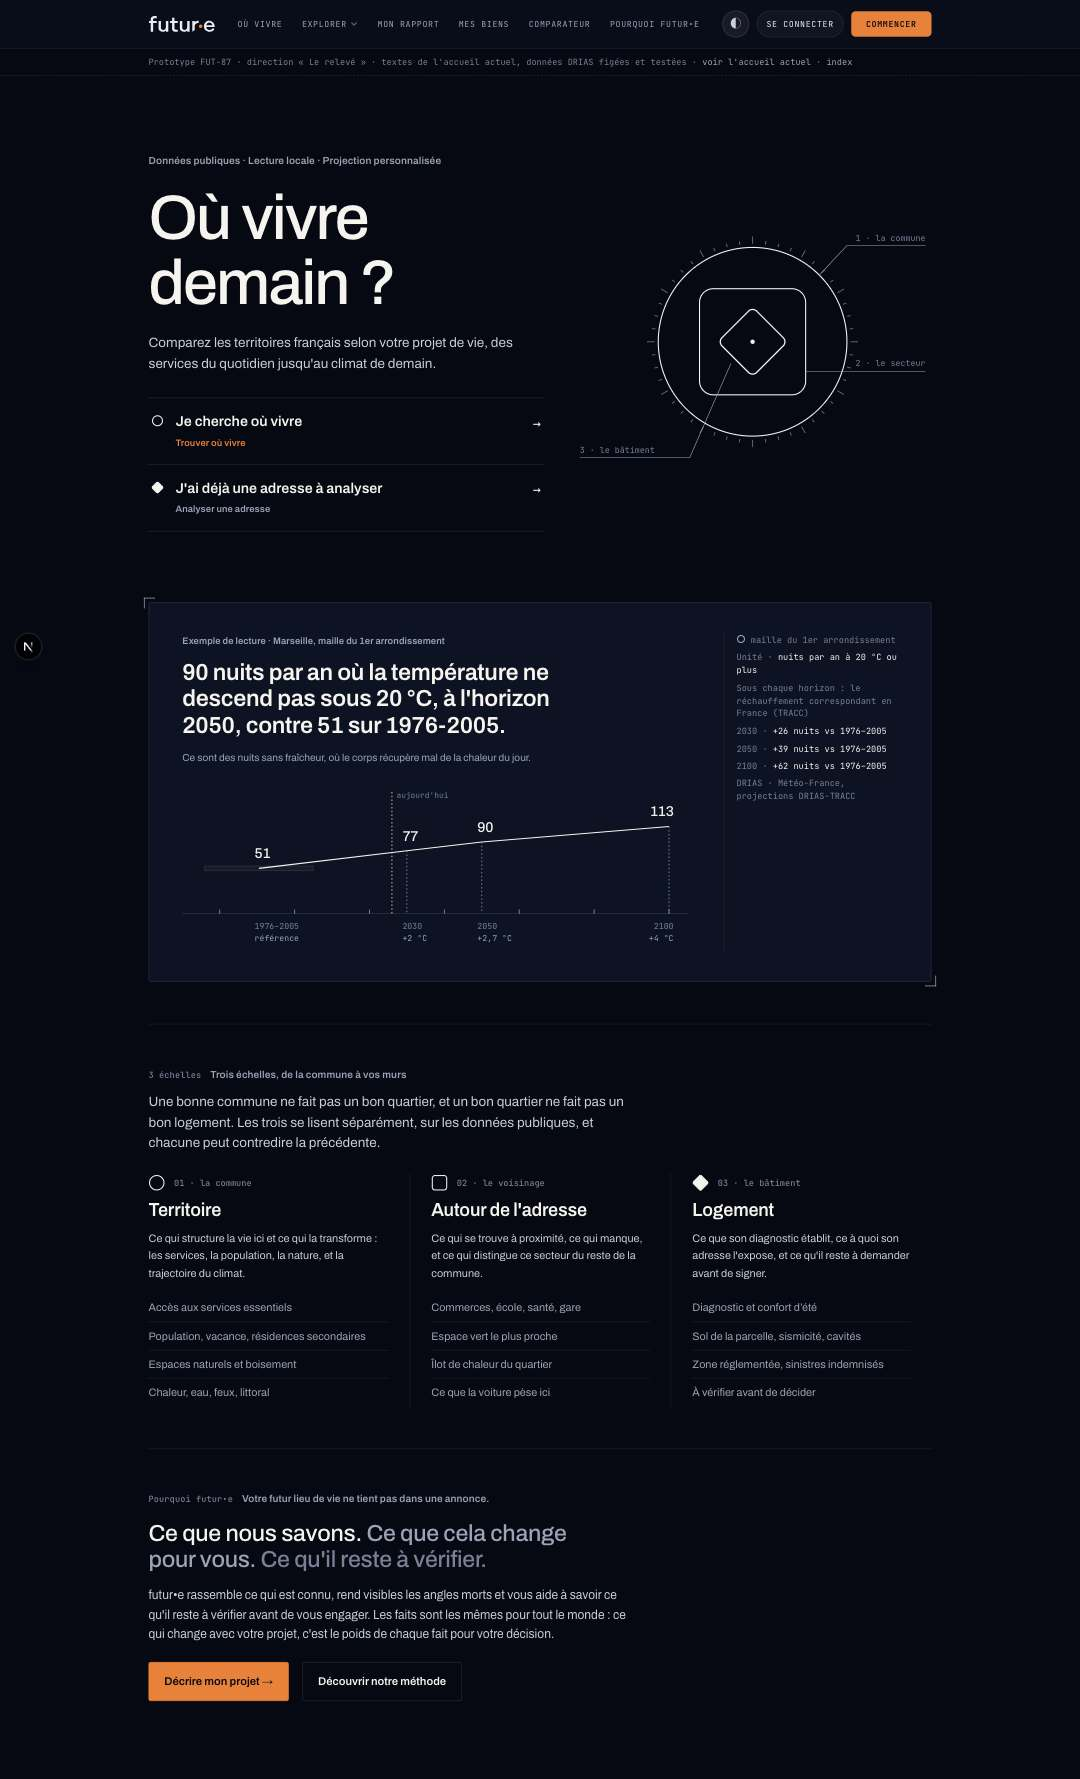
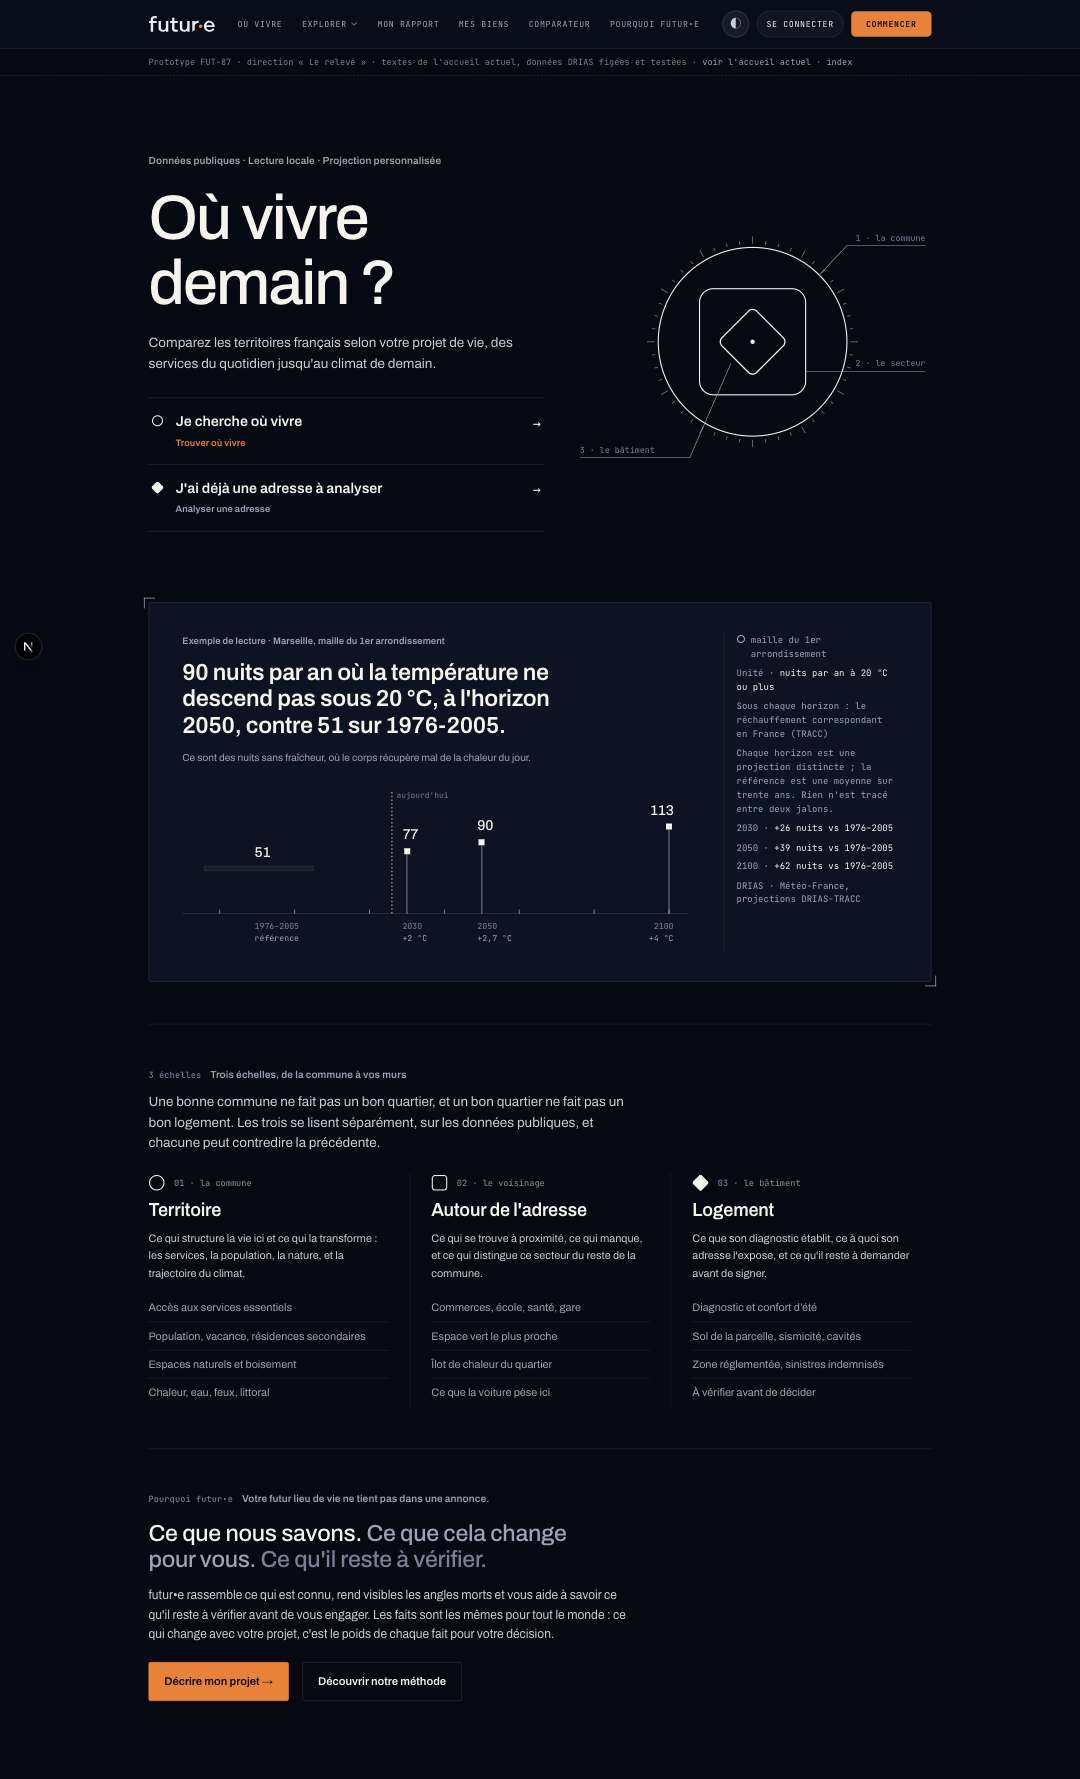
FUT-87 V2 : arbitrages du porteur, mesures mobiles, défaut moteur relevé, planches avant / après et cas défavorables

Changed region(s): [[0.6722, 0.3401, 0.825, 0.5256], [0.4278, 0.4637, 0.4583, 0.4947], [0.3667, 0.4637, 0.3972, 0.4947]]

diff --git a/docs/audits/2026-10-11-fut87-direction-artistique.md b/docs/audits/2026-10-11-fut87-direction-artistique.md
@@ -1,8 +1,32 @@
 # FUT-87 · Directions artistiques, recommandation, design system et migration
 
-Date : 11 octobre 2026 · Statut : **proposition, en attente de validation du porteur.**
-Rien de ce document n'est appliqué au site public. Les prototypes vivent sous `/dev/fut87` (404 en
-production) ; l'audit qui les fonde est `2026-10-11-fut87-audit-visuel.md`.
+Date : 11 octobre 2026 · Statut : **direction de travail validée par le porteur (revue du 11/10) ;
+version achevée et migration non validées.** Rien de ce document n'est appliqué au site public. Les
+prototypes vivent sous `/dev/fut87` (404 en production) ; l'audit qui les fonde est
+`2026-10-11-fut87-audit-visuel.md`. La V2 (§ 0) répond à la revue du porteur.
+
+## 0. V2 · Ce que la revue a changé
+
+La revue a validé l'architecture éditoriale, la marge de preuve, les glyphes et les visualisations issues
+des données, et demandé une passe de maturation avant toute migration. Ce qui a été fait :
+
+| Point de la revue | Réponse V2 | Vérification |
+| --- | --- | --- |
+| **Trajectoire dessinée comme une série continue** (`RegleDuTemps` reliait les jalons par une ligne) | Chaque horizon est un jalon isolé : une tige depuis l'axe, un repère carré, sa valeur. La référence 1976-2005 reste une bande. Aucun trait entre deux jalons, et la marge le dit. | Test D1 : la fonction ne contient ni `polyline`, ni `path`, ni `points` ; une ligne réintroduite fait échouer le test. |
+| **Provenance des preuves** (une preuve sans valeur perdait lien, cible, grain et date ; une carte prenait le grain de sa première preuve) | `lireDossier` garde chaque `EvidenceRef` entière, avec ou sans valeur ; une carte porte **tous** ses grains ; une composition reprend les grains de ses faits absorbés, et ce que sa face ne raconte pas reste lisible dans un dépliable, comme en production. En marge, une source sans valeur reste un lien, et chaque preuve d'une carte à grains mêlés porte son propre glyphe. | Tests L4 (toutes les preuves de la minute, champ par champ), L5 (carte mêlant commune, secteur et adresse, lien et date d'une source sans valeur), L6 (composition et fait absorbé d'un autre grain). Deux mutations (liens retirés, premier grain seulement) font échouer L4 à L6. |
+| **Mobile trop dense, sommaire hors du premier écran** | Sommaire en jetons juste sous le verdict ; gestes prioritaires avant l'explication ; projet replié en une ligne ; titre du verdict de 27 px sur mobile. | Mesuré sur quatre dossiers (référence, condition, nombreuses réserves, titre long) : titre, sommaire et gestes finissent entre 466 et 620 px à 390 × 844, et à 647 px au plus à 360 × 740, barre de navigation comprise et bandeau du prototype exclu. |
+| **Marge de preuve trop petite** | 12 px sur grand écran, 13 px sur mobile (11,5 px en V1) ; sources en `--fg-3` au lieu du gris de métadonnée. | Captures `*-390.jpg`. |
+| **Dossier trop austère, monotonie de lignes** | Trois densités alternées : la plaque (éditoriale) ; deux moments visuels, l'emblème compté « D'où viennent ces constats » et la bande teintée de la balance (Ma décision) ou de l'audit (Logement) ; le registre des contrôles (sobre). | Captures `decision-apres-1440.jpg`, `logement-apres-1440.jpg`. |
+| **Situations défavorables** | Cinq cas Logement (référence, sans diagnostic, immeuble, sources sans réponse, titre long) et cinq cas Ma décision (référence, condition sans compromis, nombreuses réserves, titre long, correspondance sans réserve), sélectionnables en tête de page. Les absences reprennent les phrases de production ; deux formulations nouvelles sont signalées dans le code (patrimoine non vérifié, mémoire des sinistres non lue). | Captures `cas-*.jpg`. Les cas ont révélé trois défauts, corrigés : libellés de la règle du temps superposés (diagnostic 2023 et audit 2024), « : » orphelin en début de ligne dans le verdict, rouge d'incompatibilité au sommaire d'une section de conditions sans blocage. |
+| **Orange** | Absent des données et de la navigation du dossier ; présent dans l'identité (point du logo, porte principale et bouton d'action de l'accueil). Dans le dossier, il ne reste que là où la production le met : le ton « arbitrage » du verdict, qui est le registre compromis. | Revue visuelle des captures. |
+| **Git** | Les quatre commits FUT-87 ont été rebasés sur `main` (après FUT-67 #44 et FUT-26 #45), sans rejouer FUT-67 ; #44 contient FUT-67 à l'identique. | `git log origin/main..` ne contient que des commits FUT-87. |
+
+**Défaut du moteur trouvé en testant les cas** (hors périmètre FUT-87, non corrigé ici) : à Nîmes, faire de
+« des étés plus frais » une condition sans compromis (`confirmer=faible_chaleur`) fait échouer l'assemblage
+du dossier : « fait absorbé inexistant : 30189:climat-chaleur (30189:composition-confort-ete) ». Le harnais
+de production `/dev/dossier` reproduit l'erreur à l'identique. Un lecteur qui confirmerait cette condition
+sur une commune chaude verrait vraisemblablement son dossier échouer. À traiter avec FUT-54 ou en ticket
+propre. Le cas « condition sans compromis » du prototype utilise donc la proximité de la mer.
 
 ## Cadre
 
@@ -89,7 +113,8 @@ décision devient la plaque du verdict. Ces trois formes viennent du produit lui
 - Le grain se reconnaît d'un coup d'œil à la forme, sans lire « à l'échelle de la commune ».
 - Le rang et le seuil climatique se **voient** (règle de rang, barres à seuil), avec les nombres
   mêmes qui ont décidé du constat (`basis` du moteur).
-- Le verdict, les gestes prioritaires et le sommaire du dossier tiennent dans le premier écran.
+- Le verdict, le sommaire et les gestes prioritaires tiennent dans le premier écran, mobile compris
+  (mesure au § 0 ; la V1 l'affirmait à tort pour le mobile, où le sommaire arrivait sous l'explication).
 - La balance « correspond / correspond moins bien » est face à face.
 
 **Pourquoi elle restera crédible.** Elle n'emprunte rien aux effets de l'année (verre, halos, dégradés,
@@ -125,7 +150,7 @@ JetBrains Mono seulement là où l'alignement compte.
 | Surtitre | Archivo `wdth` 88, 600, 13,5 px, **casse normale** + numéro mono | nomme un mouvement ; remplace les capitales mono |
 | Étiquette | Archivo `wdth` 88, 600, 12,5 px | statut, libellé de champ |
 | Chiffre | Archivo `wdth` 125, 500, tabulaire, 30 à 44 px + unité mono | valeur mise en avant |
-| Marge | JetBrains Mono 11,5 px, casse normale | grain, preuve, source, date |
+| Marge | JetBrains Mono 12 px (13 px sur mobile), casse normale, sources en `--fg-3` | grain, preuve, source, date |
 
 La serif n'est pas réintroduite (amendement du 01/08 : registre faux pour un instrument de mesure). La
 mono n'est plus jamais en capitales espacées.
@@ -164,7 +189,7 @@ mono n'est plus jamais en capitales espacées.
 | Vérification | geste à glyphe d'action, registre numéroté | `ActionCue`, `DecisionChecklist` |
 | Preuve | `Marge` (grain, valeur, source, date) | `Chip` « PREUVE · … » |
 | Méthodologie | `details` « Données et limites » | `MethodDetails` |
-| Visualisation | `RegleDuTemps`, `RegleDeRang`, `Seuils`, échelle DPE, barres d'audit | (absent) |
+| Visualisation | `RegleDuTemps` (jalons, jamais de courbe), `RegleDeRang`, `Seuils`, échelle DPE, barres d'audit, `EmblemeEchelles` compté | (absent) |
 | Navigation entre échelles | `CoupeEchelles`, `GlypheGrain` | cartes de modules colorées |
 
 ## 4. Les prototypes
@@ -210,7 +235,8 @@ code, et vérifié sur le build : les sept routes répondent 404 sous `next star
 ## 6. Accessibilité et responsive (vérifié sur les prototypes)
 
 - 1440, 390 et 360 px : aucun défilement horizontal (mesuré). Sous 900 px la marge passe sous le texte ;
-  sous 640 px les barres d'audit passent sous leur libellé.
+  sous 640 px les barres d'audit passent sous leur libellé. Deux jalons proches de la règle du temps
+  passent sur deux lignes de libellés.
 - Contrastes : uniquement des jetons déjà mesurés (≥ 4,5:1 pour le texte, `--ghost` à 4,69:1 sur la plaque).
 - Clavier : liens, portes, coupe des échelles et « Données et limites » sont focusables, contour 2 px
   `--fg-hi`. Les ancres des gestes prioritaires visent les faits (`tabIndex=-1`, `scroll-margin`).
@@ -218,11 +244,15 @@ code, et vérifié sur le build : les sept routes répondent 404 sous `next star
 - Aucune animation (FUT-75 viendra après la validation).
 - Non vérifié : lecteur d'écran réel, thème clair des prototypes, Safari.
 
-## 7. Points à arbitrer par le porteur
+## 7. Arbitrages du porteur (revue du 11/10/2026)
 
-1. **Valider « Le relevé »** comme direction, ou demander une autre combinaison.
-2. **Le papier clair** : la planche B est la plus forte en lecture longue. Le système du relevé fonctionne
-   aussi en thème clair (jetons existants) ; en faire le thème par défaut du **dossier imprimable** ou de
-   l'export PDF est une piste qui ne touche pas la DA sombre de l'interface.
-3. **L'accent orange** reste partagé avec le registre « compromis » (`DESIGN.md` § 11, point 1). Le
-   prototype le retire du dossier, sauf pour ce registre.
+1. **« Le relevé »** : validé comme direction de travail, pas comme version achevée. Une passe de
+   maturation (la V2) précède toute migration.
+2. **Le papier clair** : retenu pour le dossier imprimable et l'export PDF, en chantier distinct, après la
+   stabilisation de l'interface interactive.
+3. **L'orange** : gardé, discret, dans l'identité (logo, actions de l'accueil) ; retiré de tout élément
+   de donnée où il se confondrait avec un statut ou le registre compromis. Couleur de marque et couleur de
+   jugement restent séparées.
+
+**Ordre de migration demandé** : Ma décision, puis Logement, progressivement ; pas l'accueil en premier
+(il dépend de FUT-50). Ma décision consomme la sortie du moteur : la migration attend la fusion de FUT-54.

diff --git a/docs/audits/fut87-captures/README.md b/docs/audits/fut87-captures/README.md
@@ -1,14 +1,15 @@
-# FUT-87 · Planches avant / après
+# FUT-87 · Planches avant / après (V2)
 
-Captures pleine page du 11/10/2026, serveur de dev local, sans session ni appel au modèle.
-Bureau à 1440 px (réduites à 75 %), mobile à 390 px (et 360 px pour deux prototypes).
-Les pages « avant » sont nourries des **mêmes données** que les prototypes :
+Captures pleine page du 11/10/2026, serveur de dev local sur la base de `main` (FUT-67 et FUT-26
+fusionnés), sans session ni appel au modèle. Bureau à 1440 px (réduites à 75 %), mobile à 390 px,
+et 360 px pour deux prototypes. Les pages « avant » sont nourries des **mêmes données** que les prototypes :
+
 - Accueil : l'accueil actuel (`/`) face au prototype, mêmes textes ;
 - Ma décision : `DossierDecisionSection` de production face au prototype, même dossier du moteur
   (Nîmes, projet de test : étés plus frais, vie locale, accès aux soins, nature, faible risque d'inondation) ;
 - Logement : blocs de production face au prototype, même logement témoin anonymisé.
 
-| Écran | Avant | Après |
+| Écran | Avant | Après (V2) |
 | --- | --- | --- |
 | Accueil, bureau | ![](accueil-avant-1440.jpg) | ![](accueil-apres-1440.jpg) |
 | Accueil, 390 px | ![](accueil-avant-390.jpg) | ![](accueil-apres-390.jpg) |
@@ -18,5 +19,16 @@ Les pages « avant » sont nourries des **mêmes données** que les prototypes :
 | Logement, 390 px | ![](logement-avant-390.jpg) | ![](logement-apres-390.jpg) |
 
 360 px : [Ma décision](decision-apres-360.jpg) · [Logement](logement-apres-360.jpg)
+
+## Cas défavorables (V2)
+
+| Cas | Capture |
+| --- | --- |
+| Ma décision · condition sans compromis ouverte (Nîmes, proximité de la mer) | ![](cas-decision-condition-1440.jpg) |
+| Ma décision · nombreuses réserves (Marseille 1er, sept priorités), 390 px | ![](cas-decision-reserves-390.jpg) |
+| Logement · sans diagnostic | ![](cas-logement-sans-dpe-1440.jpg) |
+| Logement · appartement, audit de l'immeuble entier | ![](cas-logement-immeuble-1440.jpg) |
+| Logement · sources sans réponse (Géorisques, servitudes, sinistralité, audits) | ![](cas-logement-sources-absentes-1440.jpg) |
+| Logement · adresse très longue, 390 px | ![](cas-logement-titre-long-390.jpg) |
 
 Planche des trois directions à contenu égal : ![](directions-1440.jpg)

diff --git a/docs/audits/2026-10-11-fut87-audit-visuel.md b/docs/audits/2026-10-11-fut87-audit-visuel.md
@@ -1,6 +1,6 @@
 # FUT-87 · Audit visuel du produit réel
 
-Date : 11 octobre 2026 · Branche : `feat/fut-87-direction-artistique` (issue de `feat/fut-67-dossier-premium`, non fusionnée)
+Date : 11 octobre 2026 · Branche : `feat/fut-87-direction-artistique`, rebasée sur `main` après la fusion de FUT-67 (#44) et FUT-26 (#45)
 Suite : `2026-10-11-fut87-direction-artistique.md` (directions, recommandation, design system, migration).
 Captures : `docs/audits/fut87-captures/` (planches avant / après, desktop et mobile).
 
